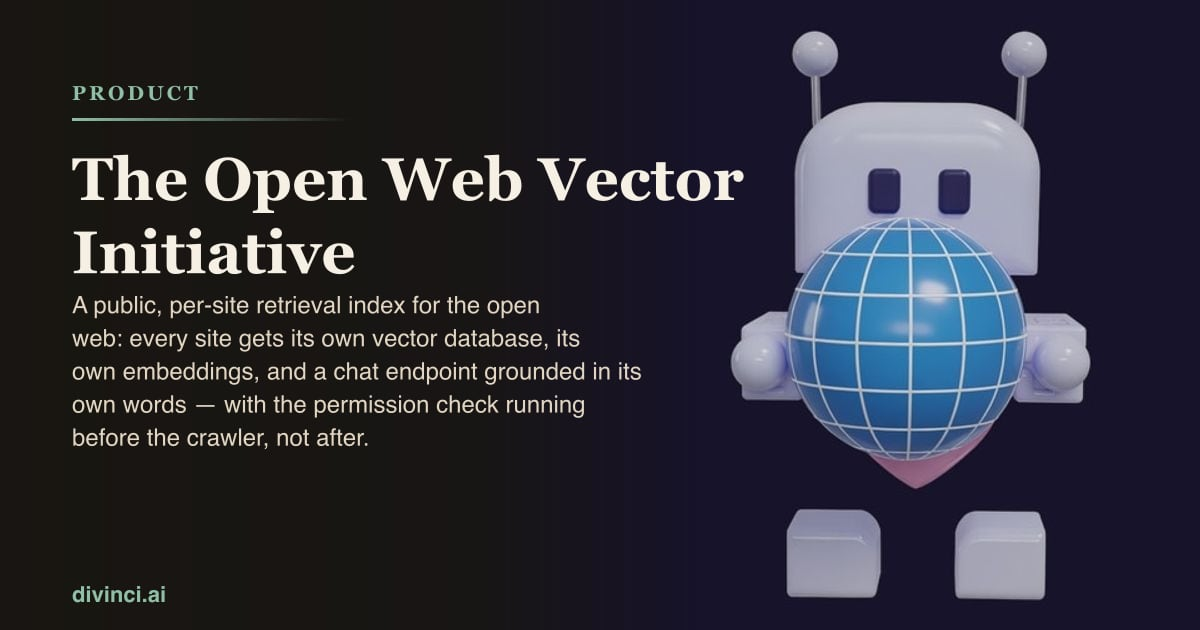
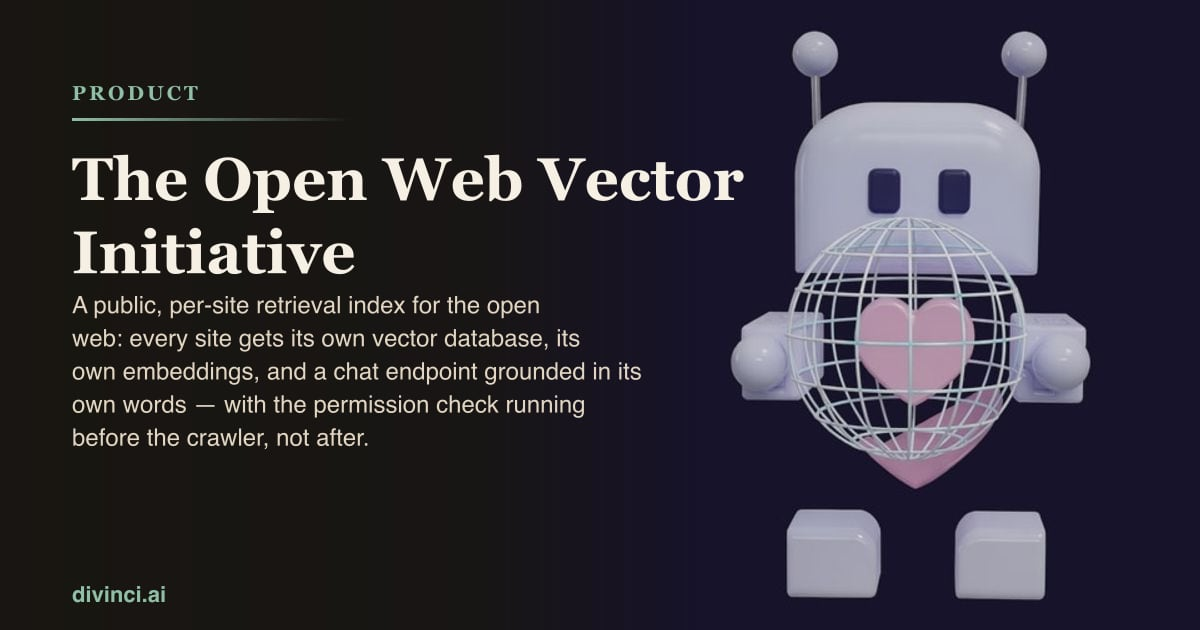
feat(open-web-vectors): hollow meridian wireframe globe
The orb is now just latitude/longitude lines, empty inside, so the
heart shows through.

Changed region(s): [[0.6475, 0.3317, 0.8633, 0.754], [0.6475, 0.8143, 0.74, 0.8746]]

diff --git a/site/templates/open-web-vectors.html b/site/templates/open-web-vectors.html
@@ -64,8 +64,8 @@
         </g>
       </svg>
       <div class="owv-orbit-scrim"></div>
-      <img class="owv-orbit-robot" src="/images/robot-orbit-520.webp?v=meridian"
-           srcset="/images/robot-orbit-320.webp?v=meridian 320w, /images/robot-orbit-520.webp?v=meridian 520w"
+      <img class="owv-orbit-robot" src="/images/robot-orbit-520.webp?v=wire"
+           srcset="/images/robot-orbit-320.webp?v=wire 320w, /images/robot-orbit-520.webp?v=wire 520w"
            sizes="200px" width="520" height="520" alt="" loading="lazy" decoding="async">
     </div>
     <div class="container">
